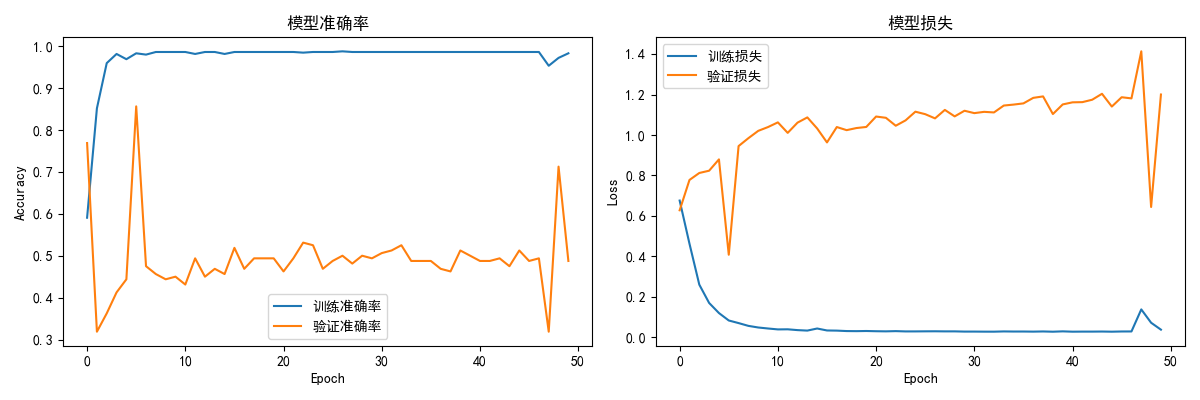
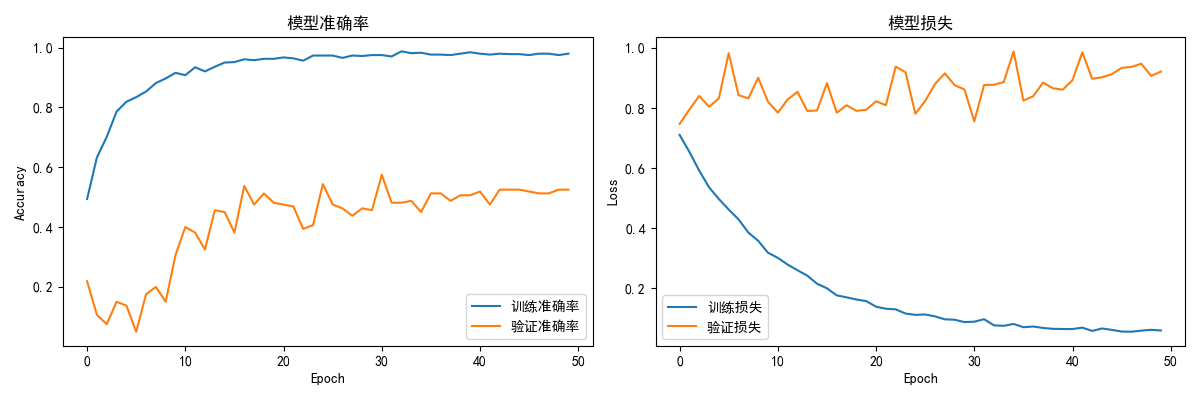
调整RNN参数

diff --git a/rnn_comment.py b/rnn_comment.py
@@ -42,12 +42,12 @@ def prepare_datasets(comments, types):
 def build_rnn_model(vocab_size=5000, max_len=100):
     """构建RNN模型"""
     model = Sequential()
-    model.add(Embedding(input_dim=vocab_size, output_dim=128, input_length=max_len))
-    model.add(SimpleRNN(64, dropout=0.2))
-    model.add(Dropout(0.2))
+    model.add(Embedding(input_dim=vocab_size, output_dim=32, input_length=max_len))
+    model.add(SimpleRNN(8, dropout=0.5))
+    model.add(Dropout(0.5))
     model.add(Dense(2, activation='softmax'))
     model.compile(loss='categorical_crossentropy',
-                 optimizer='adam',
+                 optimizer='adamw',
                  metrics=['accuracy'])
     return model
 
@@ -109,7 +109,7 @@ def run_rnn_analysis(input_csv, output_csv, metrics_img, comment_col='Comment', 
     tokenizer = Tokenizer(num_words=5000)
     tokenizer.fit_on_texts(X_train)
     X_train_seq = tokenizer.texts_to_sequences(X_train)
-    X_train_pad = pad_sequences(X_train_seq, maxlen=200)
+    X_train_pad = pad_sequences(X_train_seq, maxlen=100)
     
     # 4. 构建和训练模型
     model = build_rnn_model()
